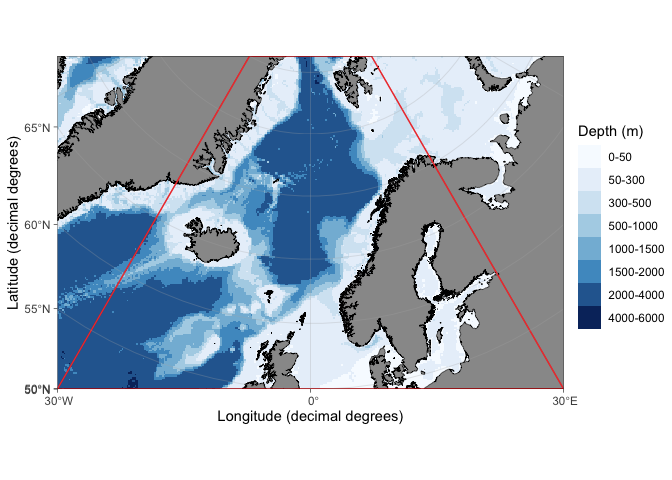
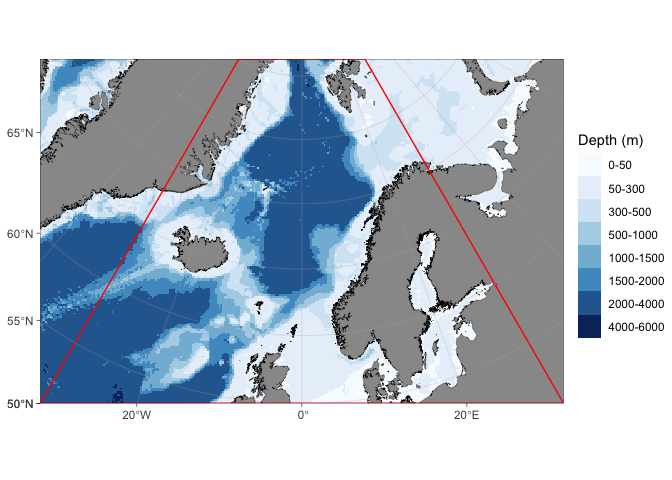
Fix R CMD Check issues

diff --git a/README.md b/README.md
@@ -2,7 +2,7 @@
 # ggOceanMaps
 
 **Plot data on oceanographic maps using ggplot2. R package version
-2.2.0**
+2.3.0**
 
 <!-- badges: start -->
 
@@ -184,18 +184,18 @@ are published. For up-to-date citation information, please use:
 citation("ggOceanMaps")
 #> To cite package 'ggOceanMaps' in publications use:
 #> 
-#>   Vihtakari M (2024). _ggOceanMaps: Plot Data on Oceanographic Maps
-#>   using 'ggplot2'_. R package version 2.2.0,
-#>   <https://CRAN.R-project.org/package=ggOceanMaps>.
+#>   Vihtakari M (2026). _ggOceanMaps: Plot Data on Oceanographic Maps
+#>   using 'ggplot2'_. R package version 2.3.0,
+#>   <https://mikkovihtakari.github.io/ggOceanMaps/>.
 #> 
 #> A BibTeX entry for LaTeX users is
 #> 
 #>   @Manual{,
 #>     title = {ggOceanMaps: Plot Data on Oceanographic Maps using 'ggplot2'},
 #>     author = {Mikko Vihtakari},
-#>     year = {2024},
-#>     note = {R package version 2.2.0},
-#>     url = {https://CRAN.R-project.org/package=ggOceanMaps},
+#>     year = {2026},
+#>     note = {R package version 2.3.0},
+#>     url = {https://mikkovihtakari.github.io/ggOceanMaps/},
 #>   }
 ```
 